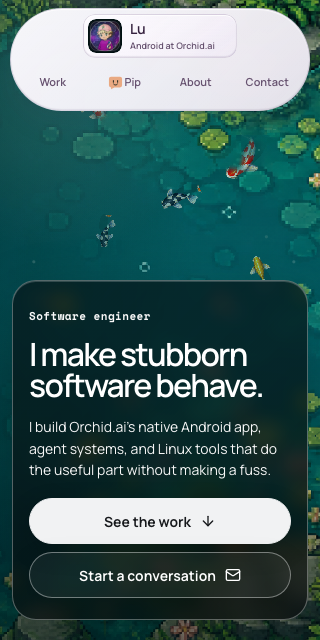
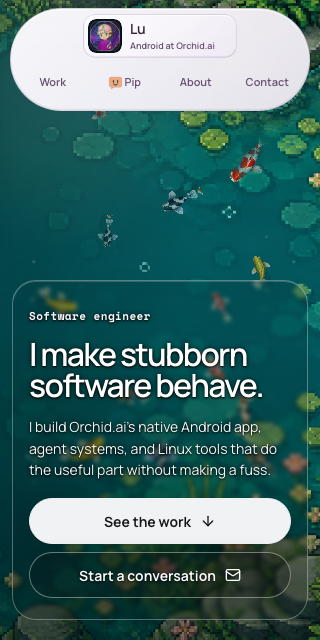
fix(site): make the hero glass almost transparent

diff --git a/components/concepts/signal-desk/signal-desk.module.css b/components/concepts/signal-desk/signal-desk.module.css
@@ -142,10 +142,11 @@
   border: 1px solid rgb(255 255 255 / .32);
   border-radius: var(--site-radius, 24px);
   color: #f8f8f8;
-  background: linear-gradient(135deg, rgb(8 10 12 / .6), rgb(8 10 12 / .68));
-  box-shadow: 0 20px 60px rgb(0 0 0 / .24), inset 0 1px 0 rgb(255 255 255 / .18);
-  -webkit-backdrop-filter: blur(10px) saturate(1.08);
-  backdrop-filter: blur(10px) saturate(1.08);
+  background: linear-gradient(135deg, rgb(8 10 12 / .12), rgb(8 10 12 / .18));
+  text-shadow: 0 1px 2px rgb(0 0 0 / .95), 0 0 5px rgb(0 0 0 / .75);
+  box-shadow: 0 16px 48px rgb(0 0 0 / .12), inset 0 1px 0 rgb(255 255 255 / .18);
+  -webkit-backdrop-filter: blur(2px) saturate(1.05);
+  backdrop-filter: blur(2px) saturate(1.05);
   pointer-events: none;
 }
 
@@ -239,13 +240,15 @@
   border-color: #f1f2f3;
   color: #17191c;
   background: #f1f2f3;
+  text-shadow: none;
   box-shadow: 0 8px 24px rgb(0 0 0 / .18);
 }
 
 .heroActions a:nth-child(2) {
   border-color: rgb(255 255 255 / .4);
   color: #fff;
-  background: rgb(255 255 255 / .05);
+  background: rgb(8 10 12 / .32);
+  text-shadow: 0 1px 2px rgb(0 0 0 / .8);
 }
 
 .heroActions a:focus-visible {

diff --git a/review-previews/ui-stack/design.md b/review-previews/ui-stack/design.md
@@ -6,7 +6,7 @@ The site uses ui-stack's Lavender Glass material across the homepage, Pip page, 
 
 The source is `luinbytes/ui-stack` at `6e3926e7d798ca887087cf73e4ff2ae92dc52a01`. Its `src/theme.ts` and `src/styles/glass-theme.css` supply the lavender palette, 24px corners, soft shadows, glass rim, and fill recipes. The site adapts them in `app/globals.css` and its CSS Modules. Manrope is served locally with its SIL Open Font License.
 
-The site keeps system light and dark themes. The hero uses neutral clear glass after iPad QA feedback. Lower panels retain stronger Lavender fills for readable copy over the moving pond. A shared vertical gap replaces independent section padding that accumulated uneven space. Decorative hero surfaces pass pointer events through to the pond. Navigation and action controls keep their existing input behavior.
+The site keeps system light and dark themes. The hero uses almost transparent neutral glass after iPad QA feedback, with 12% to 18% tint and 2px blur. Text shadows preserve readability. Lower panels retain stronger Lavender fills for readable copy over the moving pond. A shared vertical gap replaces independent section padding that accumulated uneven space. Decorative hero surfaces pass pointer events through to the pond. Navigation and action controls keep their existing input behavior.
 
 The site copies the kit's Button primitive and static Glass theme into its React components. Vite prerenders `/`, `/pip`, and the 404 as HTML, then React hydrates the selected route. Page metadata and content remain available without JavaScript. The pond uses native Three.js geometry, textures, and shaders with the existing Yuka world and input model.
 

diff --git a/review-previews/ui-stack/verification.md b/review-previews/ui-stack/verification.md
@@ -43,3 +43,11 @@ PASS. All 26 browser tests and lint pass after the final hero and spacing change
 ## Attention
 
 The decision trail was independently audited by gpt-6-astra. The audit found mislabeled screenshot dimensions and temporary proof pointers. Final captures now have their named dimensions, failed-run logs are retained, and manual checks are labeled parent-observed. An earlier decision row described artifacts as committed before the commit existed. A later row corrects that status. No transcript directory was supplied.
+
+## Almost transparent hero follow-up
+
+The user requested still clearer glass. The hero now has 12% to 18% tint, reduced from 60% to 68%. Blur drops from 10px to 2px. Text shadows protect readability over moving artwork. The secondary action retains a local 32% tint. Lower panel styling and all spacing rules stay the same.
+
+The parent inspected the new material in T3. The four-width layout probe and exact-size homepage screenshots were refreshed. The follow-up build briefly ran against the served output because the initial command used the repository working directory. The final browser run uses the isolated copy, and final publication copies assets before replacing HTML atomically. The server process stays running.
+
+PASS. The almost transparent hero revision passes lint, the production build, and all 26 browser tests. The final LAN readback matches the isolated export. Refreshed layout measurements pass at all four widths.
